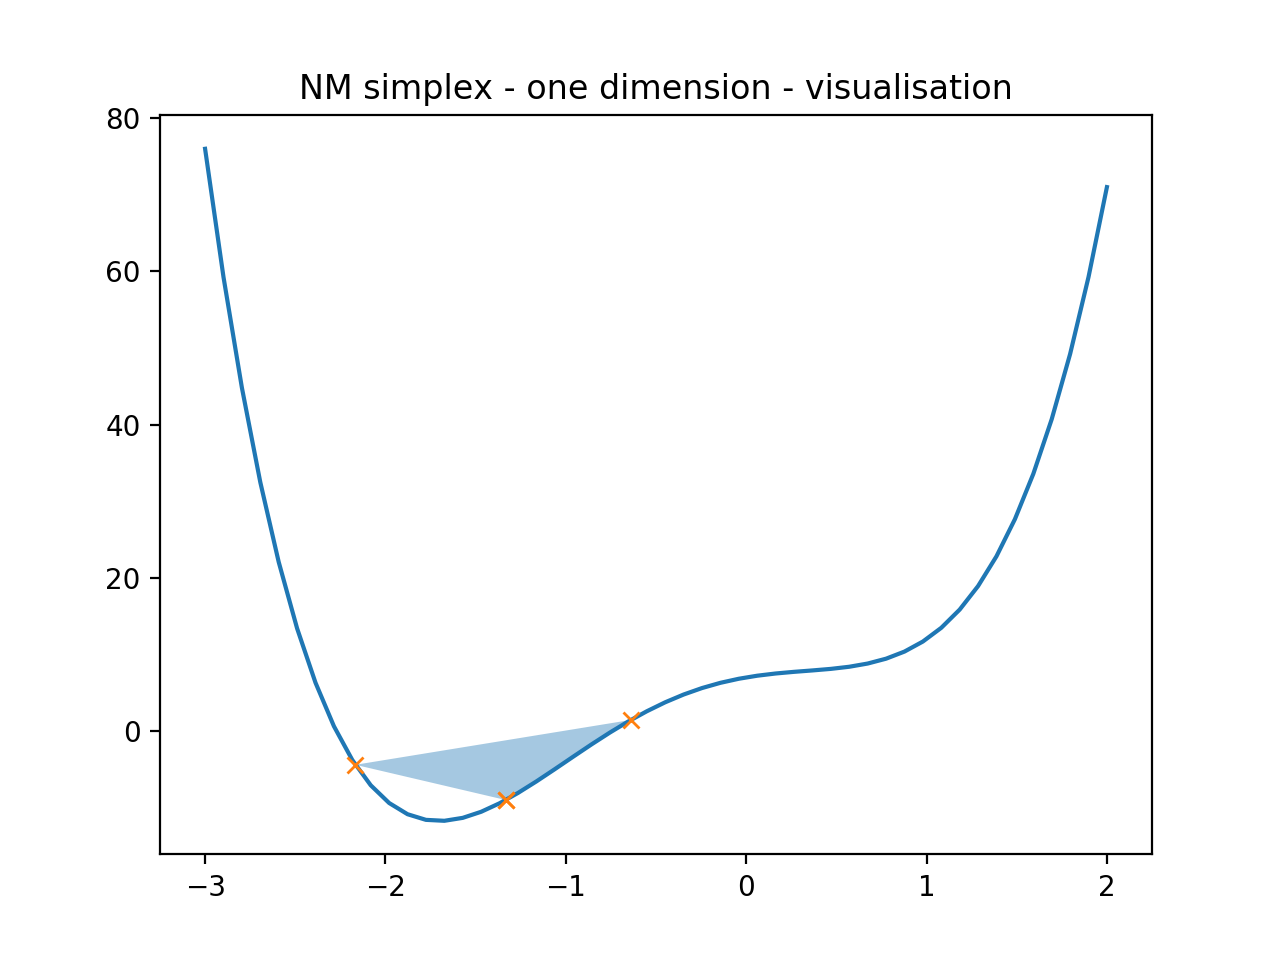
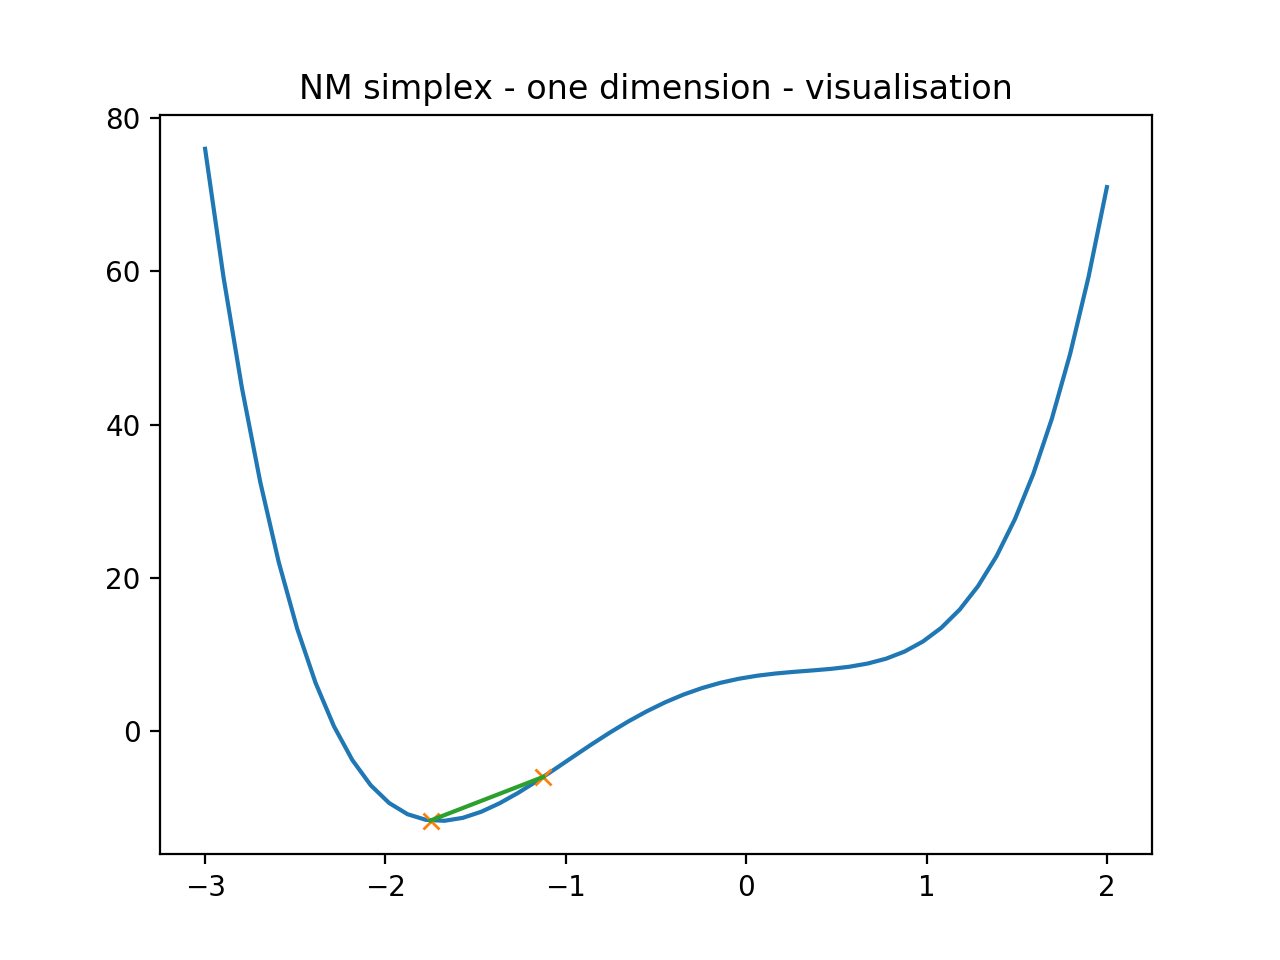
fix

Changed region(s): [[0.2812, 0.75, 0.5, 0.8438], [0.3125, 0.8438, 0.3438, 0.875]]

diff --git a/one_dimension/visualise.py b/one_dimension/visualise.py
@@ -1,7 +1,5 @@
 import numpy as np
 import matplotlib.pyplot as plt
-from matplotlib.patches import Polygon
-from matplotlib.collections import PatchCollection
 import nmsimplex as nm
 
 def fun(x):
@@ -11,7 +9,7 @@ def draw(simplex, i):
     fig, ax = plt.subplots()
     ax.plot(x, y)
     plt.plot(simplex, simplex_fun(simplex), 'x',)
-    ax.add_collection(PatchCollection([Polygon(np.transpose(np.array([simplex, simplex_fun(simplex)])))], alpha = 0.4))
+    plt.plot(simplex, simplex_fun(simplex))
     plt.title("NM simplex - one dimension - visualisation")
     fig.savefig('./figs/simplex_%d.png'%i, format='png', dpi = 200)
 
@@ -21,7 +19,6 @@ start = -3
 end = 2
 
 simplex_fun = fun
-simplex_size = 4
 max_iterations = 15
 # -----------
 
@@ -29,7 +26,7 @@ x = np.linspace(start, end)
 y = simplex_fun(x)
 
 
-simplex = nm.init_simplex(simplex_size, start, end, fun)
+simplex = nm.init_simplex(start, end, fun)
 draw(simplex, 0)
 
 i = 1

diff --git a/one_dimension/main.py b/one_dimension/main.py
@@ -10,7 +10,6 @@ start = -3
 end = 2
 
 simplex_fun = fun
-simplex_size = 4
 max_iterations = 15
 # -----------
 
@@ -19,7 +18,7 @@ y = simplex_fun(x)
 
 plt.plot(x, y, label='function')
 
-simplex = nm.init_simplex(simplex_size, start, end, fun)
+simplex = nm.init_simplex(start, end, fun)
 plt.plot(simplex, simplex_fun(simplex), 'x', label='init simplex')
 
 i = 1

diff --git a/one_dimension/nmsimplex.py b/one_dimension/nmsimplex.py
@@ -1,7 +1,7 @@
 import numpy as np
 
-def init_simplex(size, start, end, function):
-    simplex = np.linspace(start, end, size)
+def init_simplex(start, end, function):
+    simplex = np.linspace(start, end, 2)
     return simplex[function(simplex).argsort()]
 
 def nm_step(simplex, function, reflection = 1, expansion = 2, contraction = 0.5, shrinkage = 0.5):

diff --git a/multidimension/func_test.py b/multidimension/func_test.py
@@ -2,7 +2,6 @@ import numpy as np
 import matplotlib.pyplot as plt
 from mpl_toolkits import mplot3d
 from matplotlib import cm
-import nmsimplex as nm
 
 # Definitions
 start = [-10, -10]
